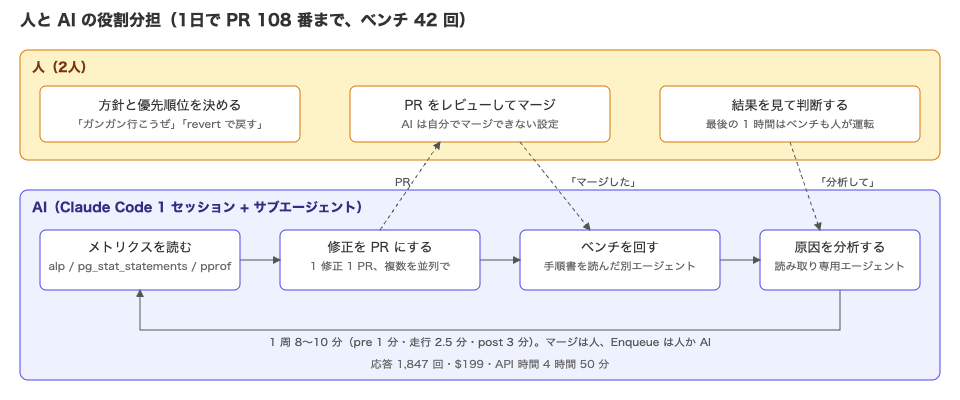
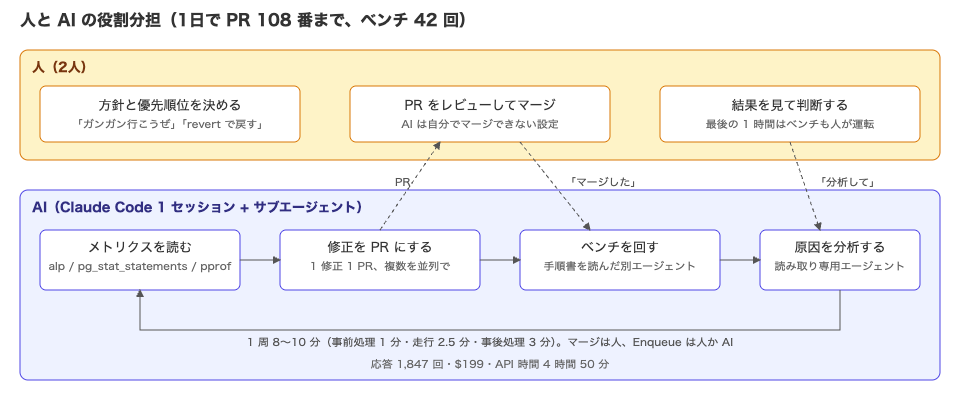
docs: pre/post を事前処理・事後処理に言い換える

Changed region(s): [[0.25, 0.84, 0.7812, 0.87]]

diff --git a/articles/kangaechu-isucon2026-ai.md b/articles/kangaechu-isucon2026-ai.md
@@ -79,7 +79,7 @@ published: true
 
 ### 17:00〜18:00　最後の 1 時間は人が運転
 
-スコアボード凍結後は、私が PR を作り、人が「マージした」と言ったら私が pre を回し、人が Enqueue する、という分担にしました。
+スコアボード凍結後は、私が PR を作り、人が「マージした」と言ったら私がベンチの事前処理（デプロイと計測の開始）を回し、人がポータルで Enqueue する、という分担にしました。
 
 - asia の API の振り分けを asia1:asia2 = 3:1、投稿は asia1 だけで処理（#105、#106）
 - 海外用アプリの接続 24 本、現地のアプリ 20 本（#107）→ 90,760 点
@@ -130,7 +130,7 @@ published: true
 
 他のチームの参加記には `GOAL.md` や `AGENTS.md` のような方針ファイルが出てきます。私たちは当日に口頭（チャット）で決めたルールが中心でした。実際に効いたものを挙げます。
 
-- **ベンチの手順書**：pre を回す → ポータルで Enqueue → 終わったら post、という手順と、「pre の完了を確認してから Enqueue」「走行中はマージしない（記録がずれる）」「ポータルは 15 秒ごとに確認」という注意書き。これだけで、何も知らないエージェントがベンチを回せました
+- **ベンチの手順書**：事前処理（デプロイと計測の開始）→ ポータルで Enqueue → 終わったら事後処理（ログとメトリクスの収集）、という手順と、「事前処理の完了を確認してから Enqueue」「走行中はマージしない（記録がずれる）」「ポータルは 15 秒ごとに確認」という注意書き。これだけで、何も知らないエージェントがベンチを回せました
 - **禁止事項の列挙**：PR をマージしない、force push しない、ルーターの IP には接続しない、Webhook や DB のパスワードを出力しない、永続化の設定を変えない。サブエージェントを起こすたびに、この一覧を指示に貼りました
 - **1 修正 1 PR**：壊れたときに `git revert -m 1` 一発で戻せる。この日 6 回使いました
 - **エージェントの使い分け**：会話の文脈を引き継ぐ fork は、判断が要る作業（改善案を PR にする）に。手順が決まった作業（ベンチの運用、原因の分析）は、指示文だけを渡す通常のエージェントに。後者の方がずっと安く、速い
